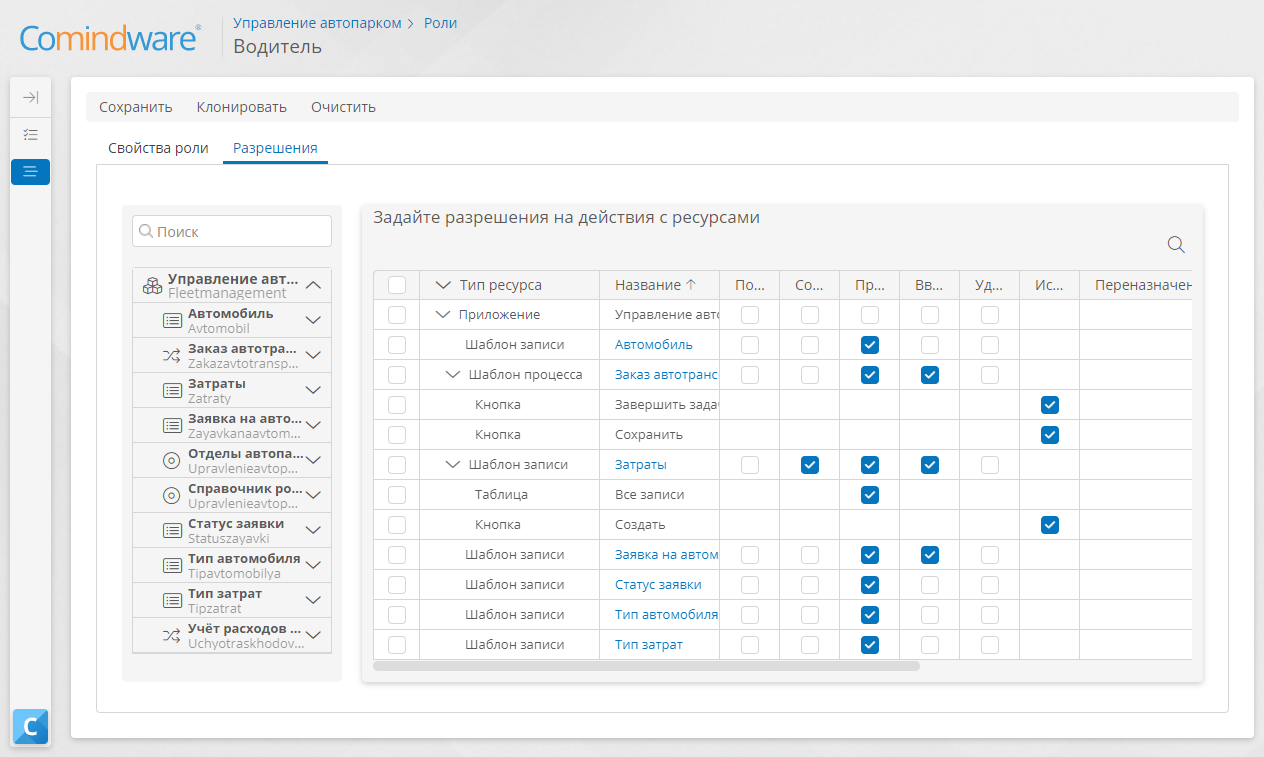
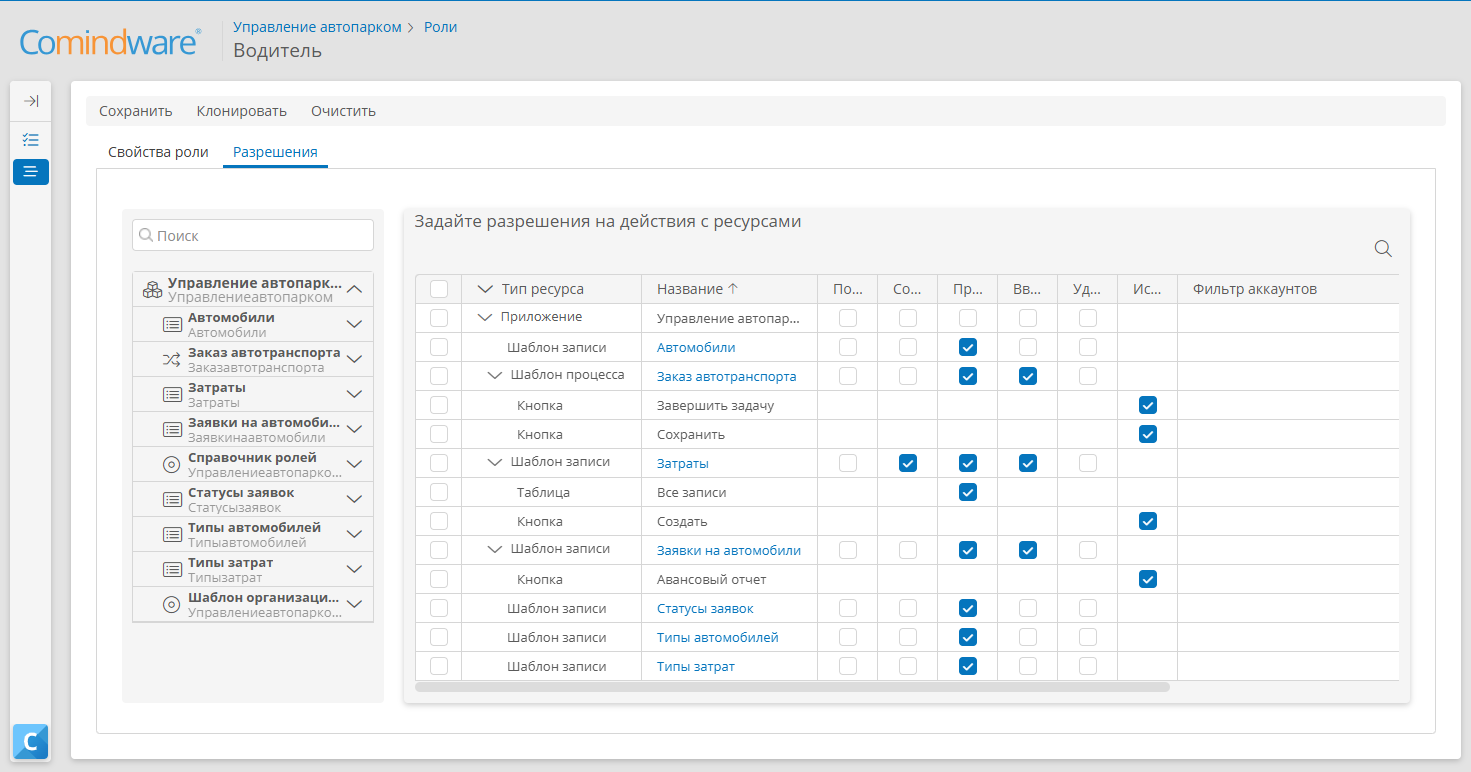
[#1888359] Edited lesson articles and screenshots

diff --git a/docs/ru/tutorial/lesson_8.md b/docs/ru/tutorial/lesson_8.md
@@ -260,7 +260,7 @@ _![Настройка разрешений роли «Водитель»](img/le
     _![Выбор участников группы «Водители»](img/lesson_8_group_drivers_account_select.png)_
 
 6. Аналогичным образом добавьте аккаунт диспетчера в группу _«Диспетчеры»_, а аккаунты секретарей — в группу _«Секретари»_.
-7. Выберите группу _«Сотрудники»_ и добавьте в неё аккаунт, пользователь которого будет создавать заявки, например _«Евгений З.»_.
+7. Выберите группу _«Сотрудники»_ и добавьте в неё аккаунт _Заказчика_.
 
     _![Добавление аккаунта Заказчика в группу «Сотрудники»](img/lesson_8_group_employees_customer_add.png)_
 
@@ -315,7 +315,7 @@ _![Настройка разрешений роли «Водитель»](img/le
 
 _![Настройка раздела навигации для роли «Секретарь»](img/lesson_8_navigation_section_configure_secretary.png)_
 
-### Настройка раздела навигации для для водителей и диспетчеров гаража
+### Настройка раздела навигации для водителей и диспетчеров гаража
 
 !!! warning "Бизнес-логика"
 
@@ -326,10 +326,11 @@ _![Настройка раздела навигации для роли «Сек
 3. Измените **отображаемое название** раздела навигации на _«Сотрудник гаража»_.
 4. Назначьте разделу навигации две роли: _«Диспетчер гаража»_ и _«Водитель»_.
 5. Перетащите на макет раздела навигации элемент «**Мои задачи**».
-6. Разверните шаблон _«Заявки на автомобили»_.
+6. Разверните пункты «**Шаблоны записей**» — _«Заявки на автомобили»_.
 7. Перетащите на макет раздела навигации таблицу «**Все записи**» и переименуйте её в _«Заявки на автомобили»_.
-8. Перетащите на макет раздела навигации таблицу «**Все записи**» шаблона _«Затраты»_ и переименуйте её в _«Затраты»_.
-9. Сохраните раздел навигации.
+8. Разверните пункты «**Шаблоны записей**» — _«Затраты»_.
+9. Перетащите на макет раздела навигации таблицу «**Все записи**» и переименуйте её в _«Затраты»_.
+10. Сохраните раздел навигации.
 
 _![Настройка раздела навигации для сотрудников гаража](img/lesson_8_navigation_section_configure_garage_employees.png)_
 
@@ -372,7 +373,7 @@ _![Результирующий список разделов навигации
 ### Выделение машины заявки — Диспетчер гаража
 
 1. Войдите в аккаунт _Диспетчера гаража_.
-2. На странице «**Мои задачи**» о ткройте задачу _«Принять заявку»_.
+2. На странице «**Мои задачи**» откройте задачу _«Принять заявку»_.
 3. Выберите автомобиль и установите флажок _«Принято»_.
 4. Завершите задачу.
 5. Выйдите из системы.

diff --git a/docs/ru/tutorial/lesson_9.md b/docs/ru/tutorial/lesson_9.md
@@ -90,7 +90,7 @@ _![Шаблон авансового отчета в формате Excel](img/l
 4. Отобразится окно «**Новый шаблон экспорта**».
 5. Укажите **название** шаблона экспорта _«Авансовый отчет»_.
 6. В поле «**Файл шаблона**» выберите пункт «**Значение**»  и загрузите созданный ранее файл `АвансовыйОтчет.XLSX`.
-7. В поле «**Имя выходного файла**» выберите пункт «**Значение**» и укажите требуемое имя экспортируемого файла с данными (без расширения файла), например: `Отчет о затратах`.
+7. В поле «**Имя выходного файла**» выберите пункт «**Значение**» и укажите требуемое имя экспортируемого файла с данными (без расширения файла), например: `Авансовый отчет`.
 8. Установите флажок «**Экспортировать как PDF**».
 9. Нажмите кнопку «**Сохранить**».
 
@@ -137,7 +137,7 @@ _![Настройка свойств шаблона экспорта](img/lesson
 
 8. Откройте диаграмму процесса _«Заказ автотранспорта»_.
 9. Нажмите кнопку* «**Редактировать**».
-10. Выберите задачу _«Выполнить рейс»_ и в меню элемента нажмите кнопку «**Форма**» «**Форма**» <i class="fa-light fa-newspaper"></i>.
+10. Выберите задачу _«Выполнить рейс»_ и в меню элемента нажмите кнопку «**Форма**» <i class="fa-light fa-newspaper"></i>.
 11. Разверните в панели элементов шаблон _«Заявки на автомобили»_
 12. Перетащите форму _«Выгрузка отчета»_ под область _«Выполнить рейс»_.
 13. Сохраните форму задачи.
